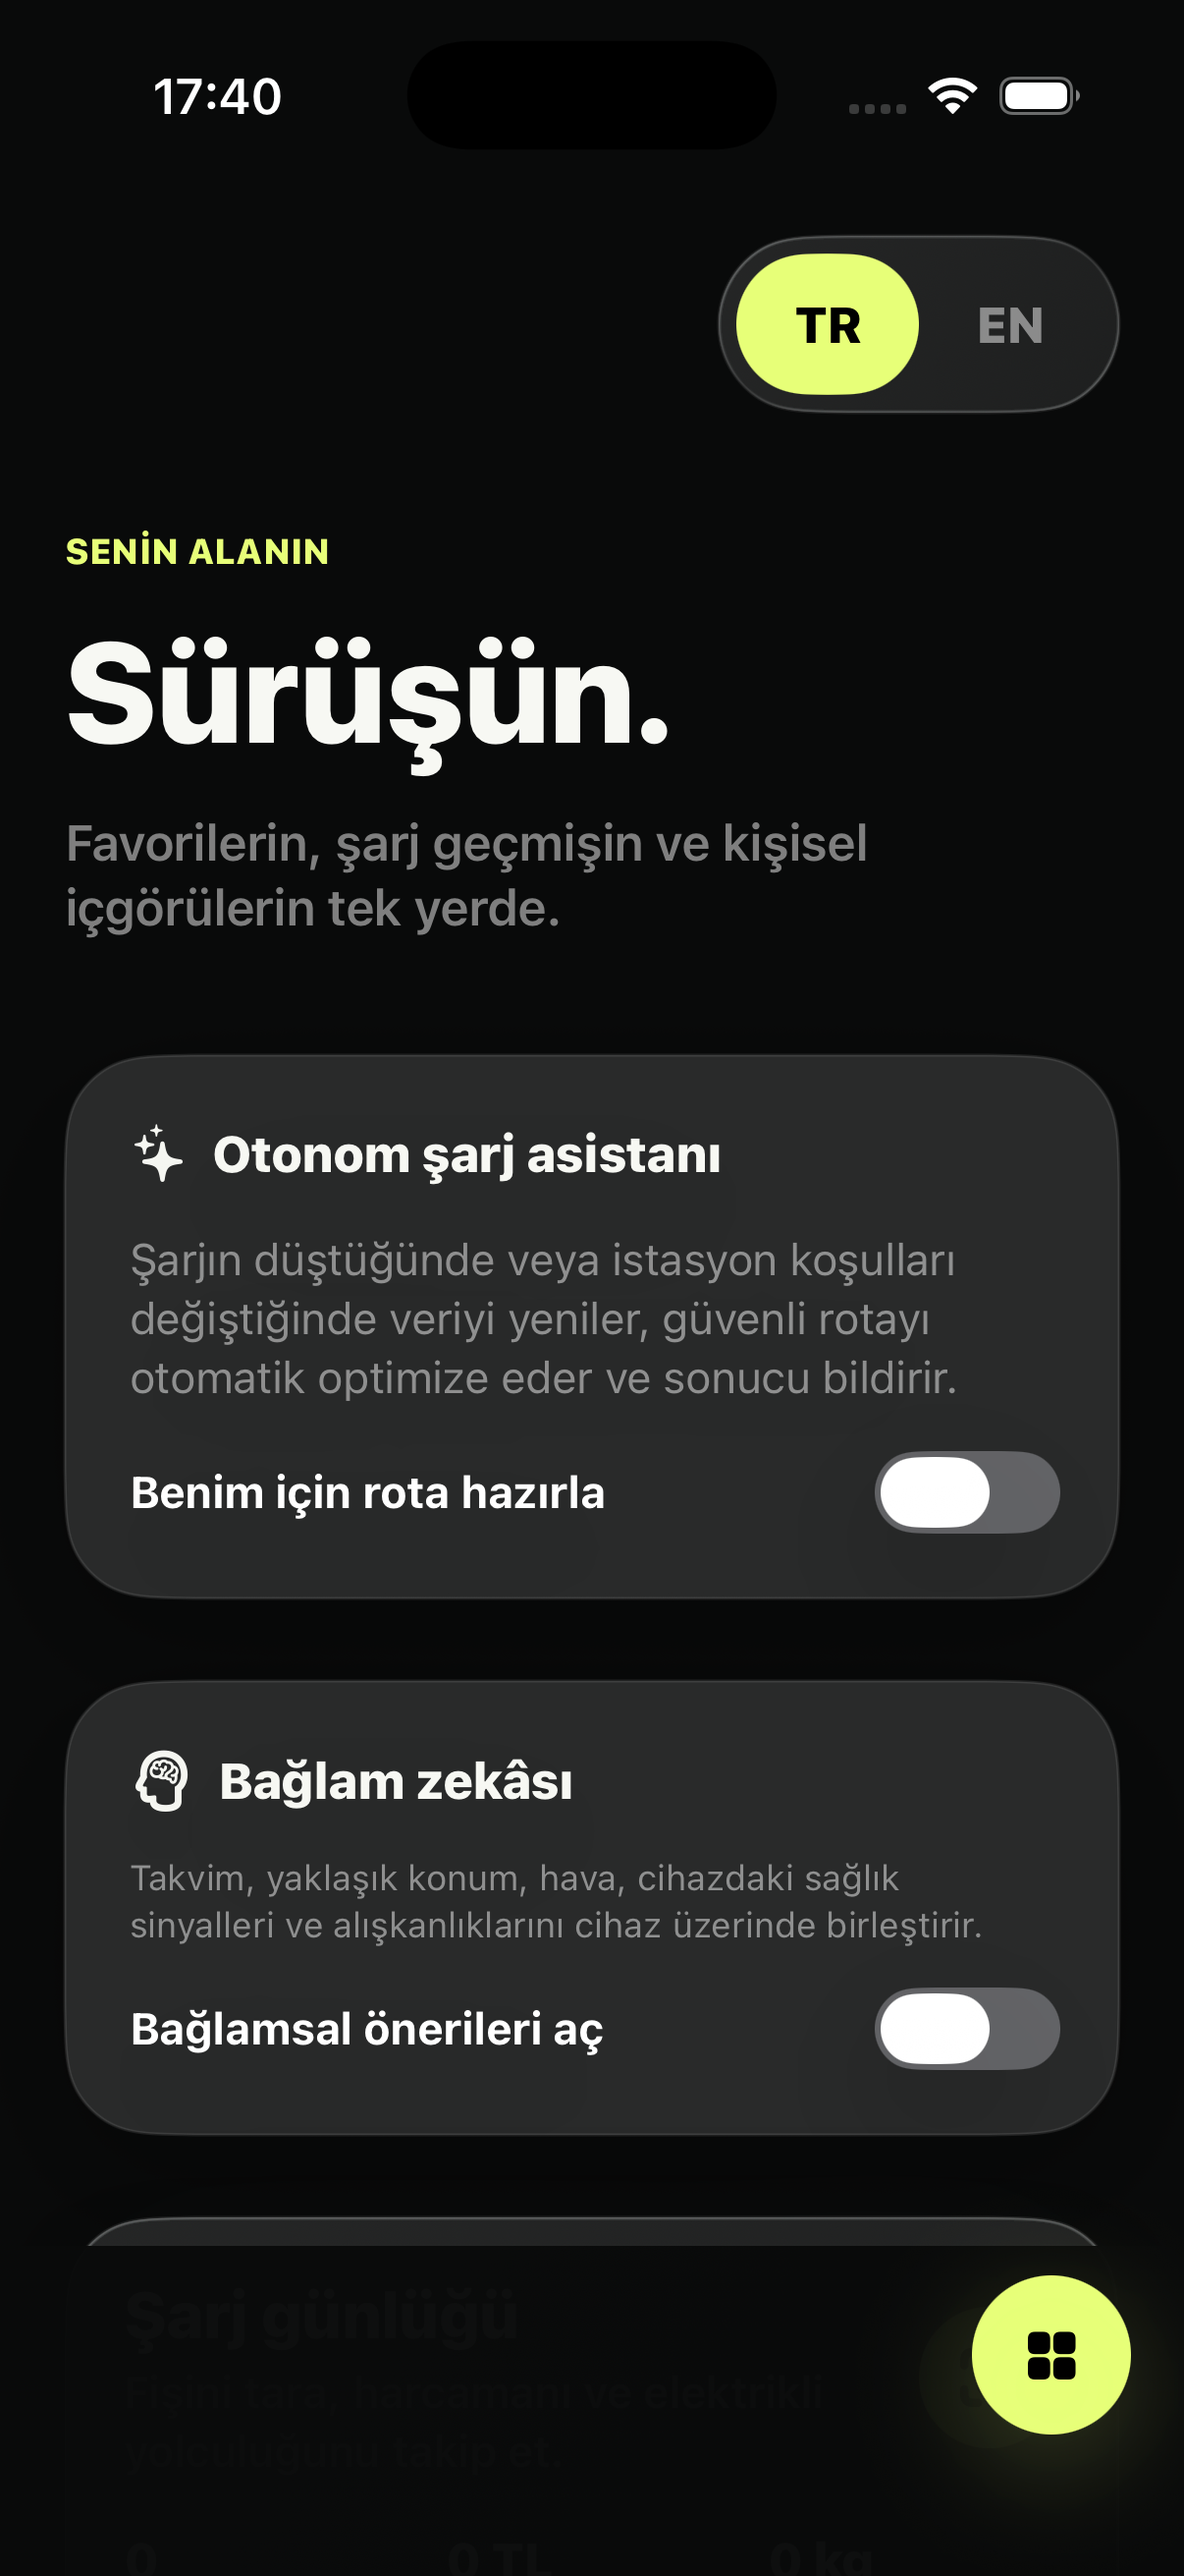
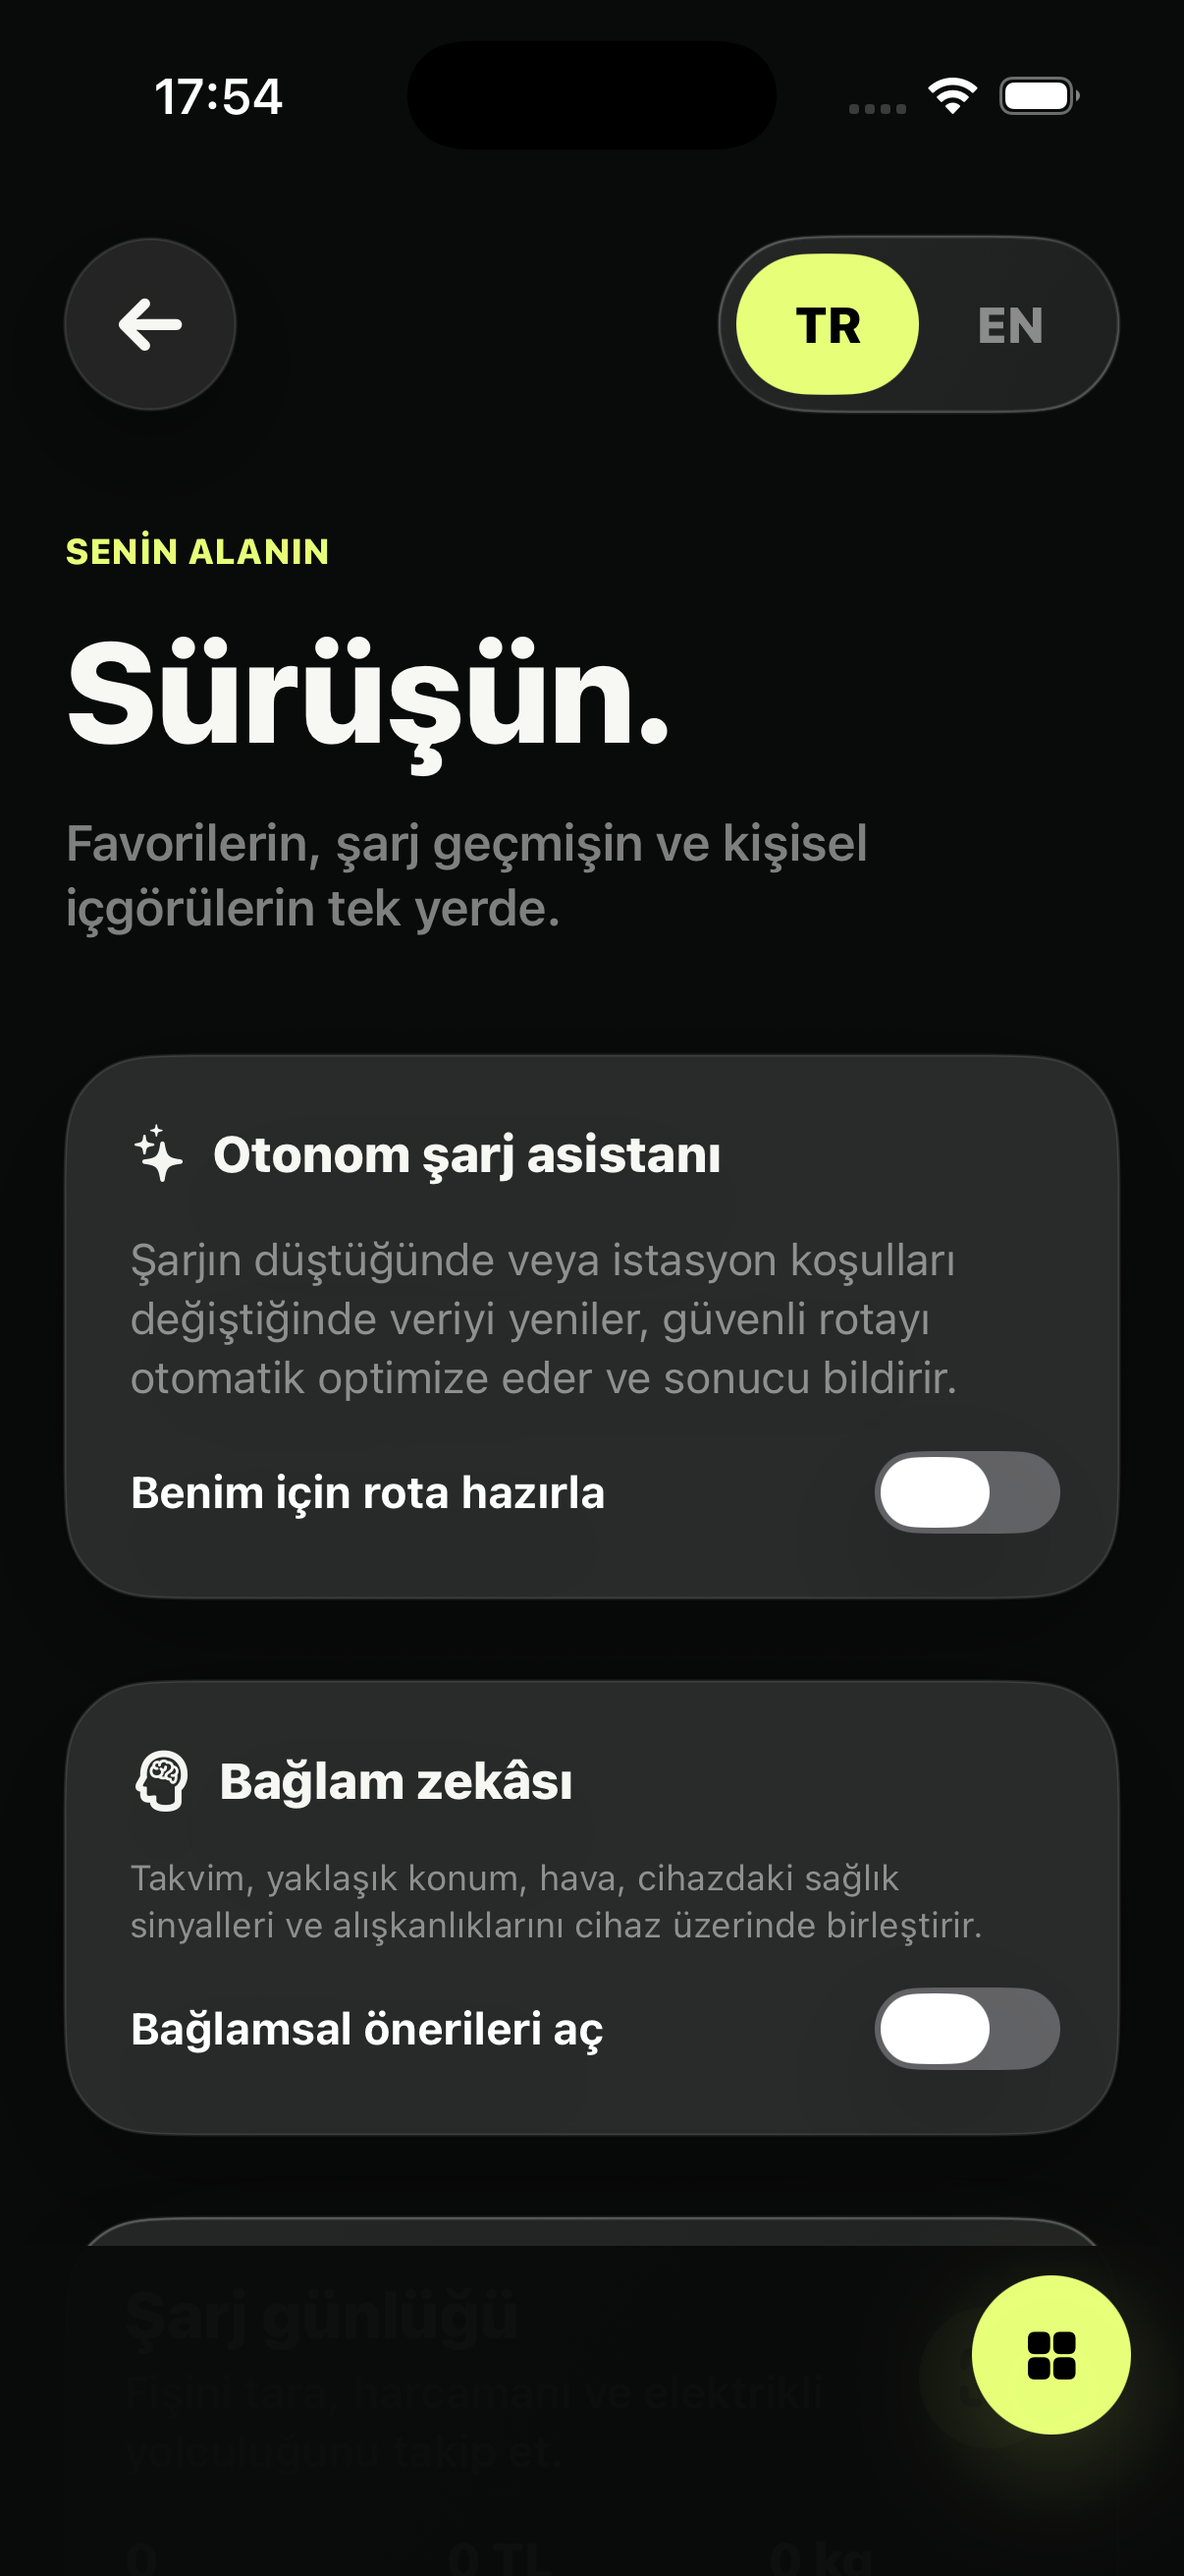
Move back navigation to profile

Changed region(s): [[0.0614, 0.0927, 0.2148, 0.1854], [0.1841, 0.0309, 0.2454, 0.0618]]

diff --git a/SarjBul/Features/Account/AccountView.swift b/SarjBul/Features/Account/AccountView.swift
@@ -9,6 +9,7 @@ struct AccountView: View {
     @Environment(ChargingHistoryStore.self) private var chargingHistory
     @Environment(AutonomousChargingAgentStore.self) private var autonomousAgent
     @Environment(ContextIntelligenceStore.self) private var contextIntelligence
+    @Environment(NavigationCoordinator.self) private var navigation
     @State private var isDeletingData = false
     @State private var deleteConfirmationPresented = false
     @State private var legalDocument: LegalDocument?
@@ -20,7 +21,7 @@ struct AccountView: View {
 
                 ScrollView {
                     VStack(alignment: .leading, spacing: 28) {
-                        languageRow
+                        profileTopBar
                         profileHeader
                         autonomousAssistantPanel
                         contextIntelligencePanel
@@ -66,8 +67,13 @@ struct AccountView: View {
         }
     }
 
-    private var languageRow: some View {
+    private var profileTopBar: some View {
         HStack {
+            SBBackButton(accessibilityLabel: settings.t("nav.back")) {
+                navigation.select(.home)
+            }
+            .accessibilityIdentifier("profile-back-button")
+
             Spacer()
             SBLanguageSwitch(selectedLanguage: Binding(
                 get: { settings.language.displayCode },

diff --git a/SarjBulUITests/AppSmokeUITests.swift b/SarjBulUITests/AppSmokeUITests.swift
@@ -122,6 +122,19 @@ final class AppSmokeUITests: XCTestCase {
         XCTAssertTrue(app.descendants(matching: .any)["home-screen"].waitForExistence(timeout: 10))
     }
 
+    func testBackButtonAppearsOnlyOnProfileAndReturnsHome() throws {
+        let app = XCUIApplication()
+        app.launchArguments = ["--ui-testing-profile"]
+        app.launch()
+
+        let profileBack = app.buttons["profile-back-button"]
+        XCTAssertTrue(profileBack.waitForExistence(timeout: 10))
+        profileBack.tap()
+
+        XCTAssertTrue(app.descendants(matching: .any)["home-screen"].waitForExistence(timeout: 10))
+        XCTAssertFalse(app.buttons["profile-back-button"].exists)
+    }
+
     func testBundledStationCatalogCreatesRoute() throws {
         let app = XCUIApplication()
         app.launchArguments = ["--ui-testing-device-location"]

diff --git a/SarjBul/Features/Home/HomeView.swift b/SarjBul/Features/Home/HomeView.swift
@@ -31,7 +31,6 @@ struct HomeView: View {
 
                 ScrollView {
                     VStack(alignment: .leading, spacing: 22) {
-                        homeHeader
                         topControls
                         if search.userLocation?.source != .device {
                             locationInput
@@ -108,15 +107,6 @@ struct HomeView: View {
                 }
                 .environment(settings)
             }
-        }
-    }
-
-    private var homeHeader: some View {
-        HStack {
-            SBBackButton(accessibilityLabel: settings.t("nav.back")) {
-                navigation.tab = .account
-            }
-            Spacer(minLength: 0)
         }
     }
 
